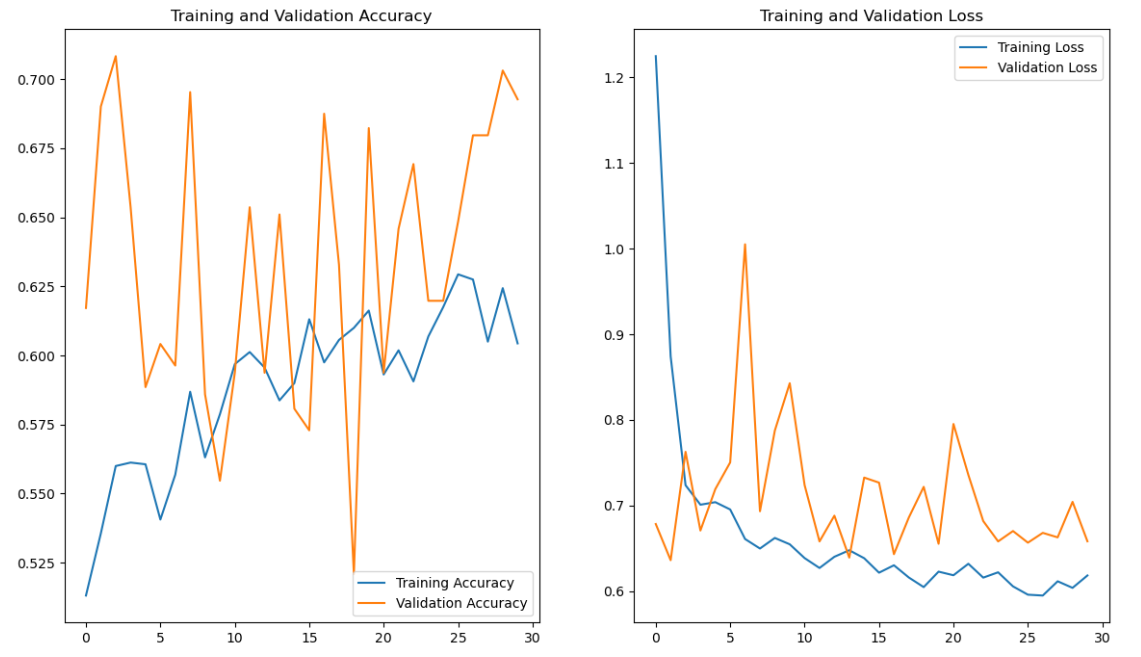
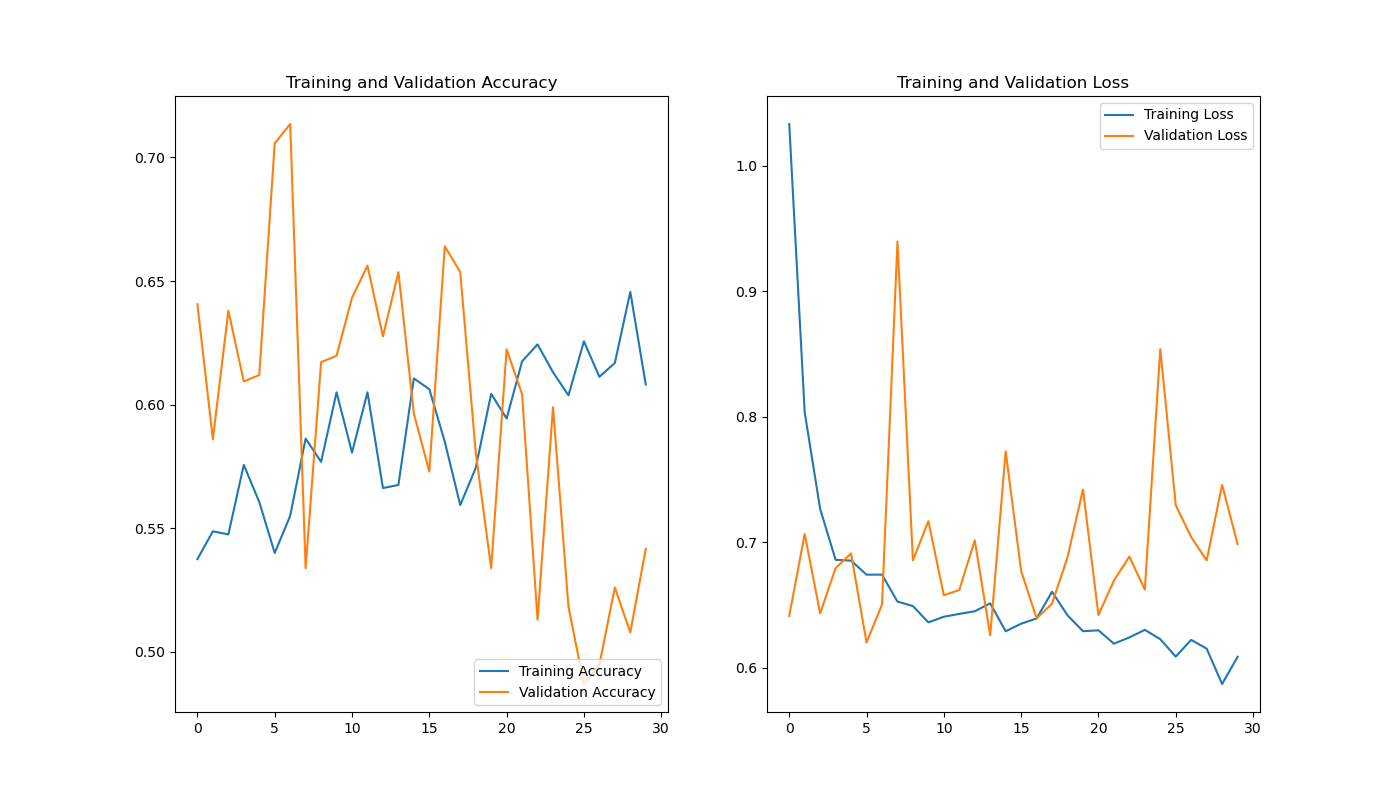
continued

diff --git a/report/Report_group25.tex b/report/Report_group25.tex
@@ -64,7 +64,7 @@
 
 The outbreak of the COVID-19 pandemic in late 2019 has placed unprecedented strain on healthcare systems worldwide, highlighting the urgent need for rapid and accurate diagnostic tools to support clinical decision–making. Chest X‑ray imaging has emerged as a widely available modality for the preliminary screening of COVID‑19 pneumonia, yet visual assessment alone can be time‑consuming and prone to inter‑observer variability~\cite{b1,b2}. In this work, a deep learning–based framework for assisted diagnosis of COVID‑19 from chest X‑ray images is presented, leveraging both custom convolutional neural networks and transfer learning approaches.
 
-Section~\ref{sec:task_1} covers exploring the publicly available dataset, detailing the preprocessing pipeline (downsampling, normalization, and light augmentation) and presenting initial sample images (Fig.~\ref{fig:example_images}). In Section~\ref{sec:task_2}, a baseline CNN model is build and evaluated, reporting its architecture (Table~\ref{table:cnn_overview}), learning curves (Fig.~\ref{fig:baseline_curves}), and test‑set performance including a confusion matrix (Fig.~\ref{fig:conf_matrix}). Section~\ref{sec:task_3} introduces transfer learning with a pre‑trained ResNet50V2 backbone, describing model adaptations, hyperparameter tuning, and comparative results. Section~\ref{sec:task_4} demonstrates model interpretability using Grad‑CAM heatmaps, and finally Section~\ref{sec:conclusions} summarizes the conclusions and outlines potential future work.
+Section~\ref{sec:task_1} covers exploring the publicly available dataset, detailing the preprocessing pipeline (downsampling, normalization, and light augmentation) and presenting initial sample images (Fig.~\ref{fig:example_images}). In Section~\ref{sec:task_2}, a baseline CNN model is build and evaluated, reporting its architecture (Table~\ref{table:baseline_cnn_overview}), learning curves (Fig.~\ref{line_curves}), and test‑set performance including a confusion matrix (Fig.~\ref{fig:conf_matrix}). Section~\ref{sec:task_3} introduces transfer learning with a pre‑trained ResNet50V2 backbone, describing model adaptations, hyperparameter tuning, and comparative results. Section~\ref{sec:task_4} demonstrates model interpretability using Grad‑CAM heatmaps, and finally Section~\ref{sec:conclusions} summarizes the conclusions and outlines potential future work.
 
 \section{Task 1: Data Exploration, Pre-Processing and Augmentation}\label{sec:task_1}
 
@@ -137,11 +137,11 @@ A custom CNN with the following components is implemented:
 	\item \textbf{Output layer}: single unit with sigmoid activation for binary classification
 \end{itemize}
 
-The model uses the Adam optimizer with a learning rate of $10^{-3}$ and binary cross-entropy loss. Accuracy was chosen as the primary metric. A summary of the full architecture is shown in Table~\ref{table:cnn_overview}.
+The model uses the Adam optimizer with a learning rate of $10^{-3}$ and binary cross-entropy loss. Accuracy was chosen as the primary metric. A summary of the full architecture is shown in Table~\ref{table:baseline_cnn_overview}.
 
 \begin{table}[htbp]
 	\caption{Initial Baseline CNN Architecture Overview.}
-	\label{table:cnn_overview}
+	\label{table:baseline_cnn_overview}
 	\centering
 	\begin{adjustbox}{width=0.48\textwidth}
 		\begin{tabular}{|l|l|r|}
@@ -192,7 +192,7 @@ A grid search was performed over the following hyperparameters:
 	\item Dense units: \{256, 512\}
 \end{itemize}
 
-Early stopping restored the best weights. The best configuration achieved a validation accuracy of \textbf{0.8958} with a dropout rate of \textbf{0.1}, \textbf{16} filters, a learning rate of \(\mathbf{5\times10^{-4}}\), and \textbf{256} dense units. All results are shown in Table~\ref{table:hp_results}.
+Early stopping restored the best weights. The best configuration achieved a validation accuracy of \textbf{0.8932} with a dropout rate of \textbf{0.2}, \textbf{8} filters, a learning rate of \(\mathbf{10^{-3}}\), and \textbf{512} dense units. All results are shown in Table~\ref{table:hp_results}.
 
 \begin{table}[htbp]
 	\caption{Hyperparameter Tuning Results (sorted by validation accuracy).}
@@ -205,69 +205,76 @@ Early stopping restored the best weights. The best configuration achieved a vali
 			& & & \textbf{Units} & & & \\
 			\hline
 			\rowcolor{yellow}
-			\bfseries 0.1 & \bfseries 16 & \bfseries 5e‑4 & \bfseries 256 & \bfseries 0.8958 & \bfseries 11 & \bfseries 0.3090 \\
-			0.1 & 8  & 1e‑3 & 512 & 0.8958 &  5 & 0.2937 \\
-			0.2 & 16 & 1e‑3 & 512 & 0.8880 &  4 & 0.3031 \\
-			0.1 & 16 & 1e‑3 & 512 & 0.8828 &  6 & 0.2919 \\
-			0.2 & 16 & 5e‑4 & 256 & 0.8828 &  8 & 0.3199 \\
-			0.1 & 16 & 5e‑4 & 512 & 0.8724 &  5 & 0.3057 \\
-			0.1 & 8  & 5e‑4 & 256 & 0.8724 &  5 & 0.2813 \\
-			0.1 & 8  & 5e‑4 & 512 & 0.8724 &  7 & 0.3119 \\
-			0.2 & 8  & 5e‑4 & 512 & 0.8698 &  8 & 0.3170 \\
-			0.1 & 8  & 1e‑3 & 256 & 0.8672 &  5 & 0.3261 \\
-			0.2 & 16 & 1e‑3 & 256 & 0.8672 &  8 & 0.3626 \\
-			0.2 & 16 & 5e‑4 & 512 & 0.8672 & 10 & 0.3336 \\
-			0.2 & 8  & 1e‑3 & 256 & 0.8646 &  6 & 0.3521 \\
-			0.2 & 8  & 5e‑4 & 256 & 0.8594 & 11 & 0.3652 \\
-			0.1 & 16 & 1e‑3 & 256 & 0.8385 &  6 & 0.3685 \\
-			0.2 & 8  & 1e‑3 & 512 & 0.8385 &  6 & 0.3605 \\
+			\bfseries 0.2 & \bfseries 8  & \bfseries 1e-3 & \bfseries 512 & \bfseries 0.8932 & \bfseries 9  & \bfseries 0.2984 \\
+			0.2           & 16           & 1e-3            & 256           & 0.8906           & 7            & 0.2998           \\
+			0.1           & 16           & 5e-4            & 512           & 0.8828           & 6            & 0.2970           \\
+			0.1           & 8            & 1e-3            & 512           & 0.8828           & 12           & 0.3483           \\
+			0.1           & 8            & 1e-3            & 256           & 0.8776           & 8            & 0.3139           \\
+			0.1           & 16           & 1e-3            & 512           & 0.8724           & 5            & 0.3096           \\
+			0.2           & 16           & 5e-4            & 256           & 0.8698           & 9            & 0.3422           \\
+			0.2           & 8            & 5e-4            & 512           & 0.8698           & 10           & 0.2969           \\
+			0.2           & 16           & 5e-4            & 512           & 0.8672           & 4            & 0.3052           \\
+			0.1           & 8            & 5e-4            & 512           & 0.8646           & 12           & 0.3483           \\
+			0.2           & 16           & 1e-3            & 512           & 0.8646           & 6            & 0.3223           \\
+			0.1           & 16           & 1e-3            & 256           & 0.8620           & 4            & 0.3276           \\
+			0.2           & 8            & 5e-4            & 256           & 0.8620           & 8            & 0.3166           \\
+			0.1           & 8            & 5e-4            & 256           & 0.8594           & 8            & 0.3343           \\
+			0.2           & 8            & 1e-3            & 256           & 0.8464           & 5            & 0.3387           \\
+			0.1           & 16           & 5e-4            & 256           & 0.8385           & 5            & 0.3608           \\
 			\hline
 		\end{tabular}
 	\end{adjustbox}
 \end{table}
 
+
 \subsection{Final Baseline Model}
 Using the best hyperparameters, the model was retrained on the full training set (2,000 images) for 8 epochs. Evaluation on the held-out test set (200 images) yielded:
 \begin{itemize}
-	\item Test accuracy: 0.8900
-	\item Test loss: 0.2772
+	\item Test accuracy: 0.8300
+	\item Test loss: 0.3835
 \end{itemize}
 
 The confusion matrix is shown in Fig.~\ref{fig:conf_matrix}.
 
 \begin{figure}[htbp]
-	\centerline{\includegraphics[width=0.7\linewidth]{Images/confusion_matrix_baseline.png}}
-	\caption{Confusion matrix of the final baseline model on the test set.}
+	\centerline{\includegraphics[width=\linewidth]{Images/confusion_matrix_baseline.png}}
+	\caption{Confusion matrix of the final baseline model on the test set (1: NORMAL, 0:COVID).}
 	\label{fig:conf_matrix}
 \end{figure}
 
 \subsection{Discussion}
-The baseline model achieved 89\% accuracy, demonstrating strong discriminative power between COVID-19 and normal chest X-ray images. The following is observed from the confusion matrix (Fig.~\ref{fig:conf_matrix}):
+The baseline model achieved 83\% accuracy, demonstrating strong discriminative power between COVID-19 and normal chest X-ray images. The following is observed from the confusion matrix (Fig.~\ref{fig:conf_matrix}):
 
 \begin{itemize}
-	\item True negatives (NORMAL correctly classified): 85
-	\item False positives (NORMAL misclassified as COVID): 15
-	\item False negatives (COVID misclassified as NORMAL): 7
-	\item True positives (COVID correctly classified): 93
+	\item True negatives (NORMAL correctly classified): 88
+	\item False positives (NORMAL misclassified as COVID): 12
+	\item False negatives (COVID misclassified as NORMAL): 22
+	\item True positives (COVID correctly classified): 78
 \end{itemize}
 
-This yields a sensitivity (recall for COVID) of $93/(93+7)=0.93$ and a specificity of $85/(85+15)=0.85$. The slightly higher sensitivity indicates that the model is more likely to correctly detect COVID cases, at the cost of some false alarms.  
+This yields a sensitivity (recall for COVID) of $78/(78+22)=0.78$ and a specificity of $88/(88+12)=0.88$. The slightly higher sensitivity indicates that the model is more likely to correctly detect COVID cases, at the cost of some false alarms.  
+
+In our final training run—conducted without a separate validation split—we noted that training loss continued to decline predictably with each epoch. However, without a validation curve to signal overfitting, determining the optimal early‑stopping point became speculative. In future work, reintroducing a validation set or implementing cross‑validation will be essential to choose the right number of epochs.
 
 The training curves, shown in Fig.~\ref{fig:baseline_curves}, suggest rapid convergence of training accuracy to nearly 100\% within the first 10 epochs, while validation accuracy plateaus around 88\%, suggesting that there is still some overfitting, even after controlling via dropout. Overall, the baseline CNN provides a solid starting point.
 
 
 
 
+
+
 \section{Task 3: Transfer Learning} \label{sec:task_3}
 In this task we will apply transfer learning by using a pre-trained ResNet50V2 model trained on Imagenet. This model has been trained on a large dataset images. We will use this model as a starting point for our own model. Transfer learning is a powerful machine learning technique for leveraging knowledge learned
-from one task and applying it to a new task. This is especially useful when you have limited training data. \\
+from one task and applying it to a new task. This is especially useful when you have limited training data.\\
 
-The typical workflow for transfer learning is as follows: \\
-1.Starting with a pretrained model\\
-2.Freeze the layers of the pretrained model\\
-3.Add new trainablelayers to the pretrained model\\
-4.Training on the dataset\\
-5.Fine-tuning (optional)\\
+The typical workflow for transfer learning is as follows:
+\begin{enumerate}
+	\item Starting with a pretrained model
+	\item Freeze the layers of the pretrained model
+	\item Add new trainablelayers to the pretrained model
+	\item Training on the dataset
+	\item Fine-tuning (optional)
+\end{enumerate}
 
 We freeze the layers of the pretrained model to prevent information learned from the initial task from being overwritten during the new training process.Then new layers are added to the pretrained model to adapt it to the new task. And then we train the model and fine-tune it.\\
 
@@ -278,7 +285,7 @@ New layers are added to the model. We added 2 Dense layers.\\
 
 \begin{table}[htbp]
 	\caption{Initial Transfer Model Architecture}
-	\label{table:cnn_overview}
+	\label{table:transfer_cnn_overview}
 	\centering
 	\begin{adjustbox}{width=0.48\textwidth}
 		\begin{tabular}{|l|l|r|}
@@ -311,19 +318,18 @@ We also have a augmentation layer. We use RandomBrightness, RandomContrast and R
 
 \subsection{Train the model}
 
-We train the model using the best hyperparameters found while optimizing the
+We train the model using the best meters found while optimizing the
 baseline. We use the training and validation data together as training data. 
 (See III Task 2, paragraph C.)\\
 
 
 
-Here are the plots we get from training the model for trainingset for thirty epochs while holding out the
-validation set to monitor its performance.\\
+Here are the plots we get from training the model for training set for thirty epochs while holding out the validation set to monitor its performance.\\
 
 \begin{figure}[htbp]
 	\centerline{\includegraphics[width=\linewidth]{Images/Transferlearning_1.png}}
 	\caption{Training and validation accuracy and loss for the base model over 30 epochs.}
-	\label{fig:baseline_curves}
+	\label{fig:transferlearning_1}
 \end{figure}
 
 The model runs without errors and the loss decreases more or less smoothly. The accuracy is very poor. We have tried a lot of configurations and different augmentation factors but we had a lot of overfitting. We try to avoid this by choosing the right layers, parameters and the right augmentation and this was the result.\\
@@ -350,7 +356,7 @@ By doing this we get the following plots which represent the training accuracy a
 \begin{figure}[htbp]
 	\centerline{\includegraphics[width=\linewidth]{Images/Transferlearning_2.png}}
 	\caption{Training and validation accuracy and loss for the pre-trained model}
-	\label{fig:baseline_curves}
+	\label{fig:transferlearning_2}
 \end{figure}
 
 The accuracy increases and the loss decreases.
@@ -363,19 +369,19 @@ We display the confusion matrix.
 \begin{figure}[htbp]
 	\centerline{\includegraphics[width=\linewidth]{Images/Transferlearning_3.png}}
 	\caption{Confusion matrix for the final model}
-	\label{fig:baseline_curves}
+	\label{fig:transferlearning_3}
 \end{figure}
 
 The confusion matrix shows:\\
 
 \begin{itemize}
-	\item True negatives (NORMAL correctly classified): 41
-	\item False positives (NORMAL misclassified as COVID): 59
-	\item False negatives (COVID misclassified as NORMAL): 8
-	\item True positives (COVID correctly classified): 92
+	\item True negatives (NORMAL correctly classified): 84
+	\item False positives (NORMAL misclassified as COVID): 17
+	\item False negatives (COVID misclassified as NORMAL): 16
+	\item True positives (COVID correctly classified): 83
 \end{itemize}
 
-This yields a sensitivity (recall for COVID) of $92/(92+8)=0.92$ and a specificity of $41/(41+59)=0.41$. The much higher sensitivity indicates the model is more likely to correctly detect COVID cases, at the cost of a lot of false alarms. \\ 
+This yields a sensitivity (recall for COVID) of $83/(83+16)=0.8384$ and a specificity of $84/(84+17)=0.8317$. The much higher sensitivity indicates the model is more likely to correctly detect COVID cases, at the cost of a lot of false alarms. \\ 
 
 
 
@@ -384,7 +390,7 @@ Finally a few images are plotted from the test dataset. First without pre-proces
 \begin{figure}[htbp]
 	\centerline{\includegraphics[width=\linewidth]{Images/Transferlearning_4.png}}
 	\caption{Test Samples with and without pre-processing and there labels}
-	\label{fig:baseline_curves}
+	\label{fig:transferlearning_4}
 \end{figure}
 
 
@@ -407,7 +413,11 @@ To improve the effectiveness of transfer learning in this context, several modif
 
 \section{Task 4: Explainability through Grad-CAM} \label{sec:task_4}
 
-
+\begin{figure}[htbp]
+	\centerline{\includegraphics[width=\linewidth]{Images/gradcam.png}}
+	\caption{Grad CAM test image.}
+	\label{fig:gradcam}
+\end{figure}
 
 \section{Conclusions}\label{sec:conclusions}
 
